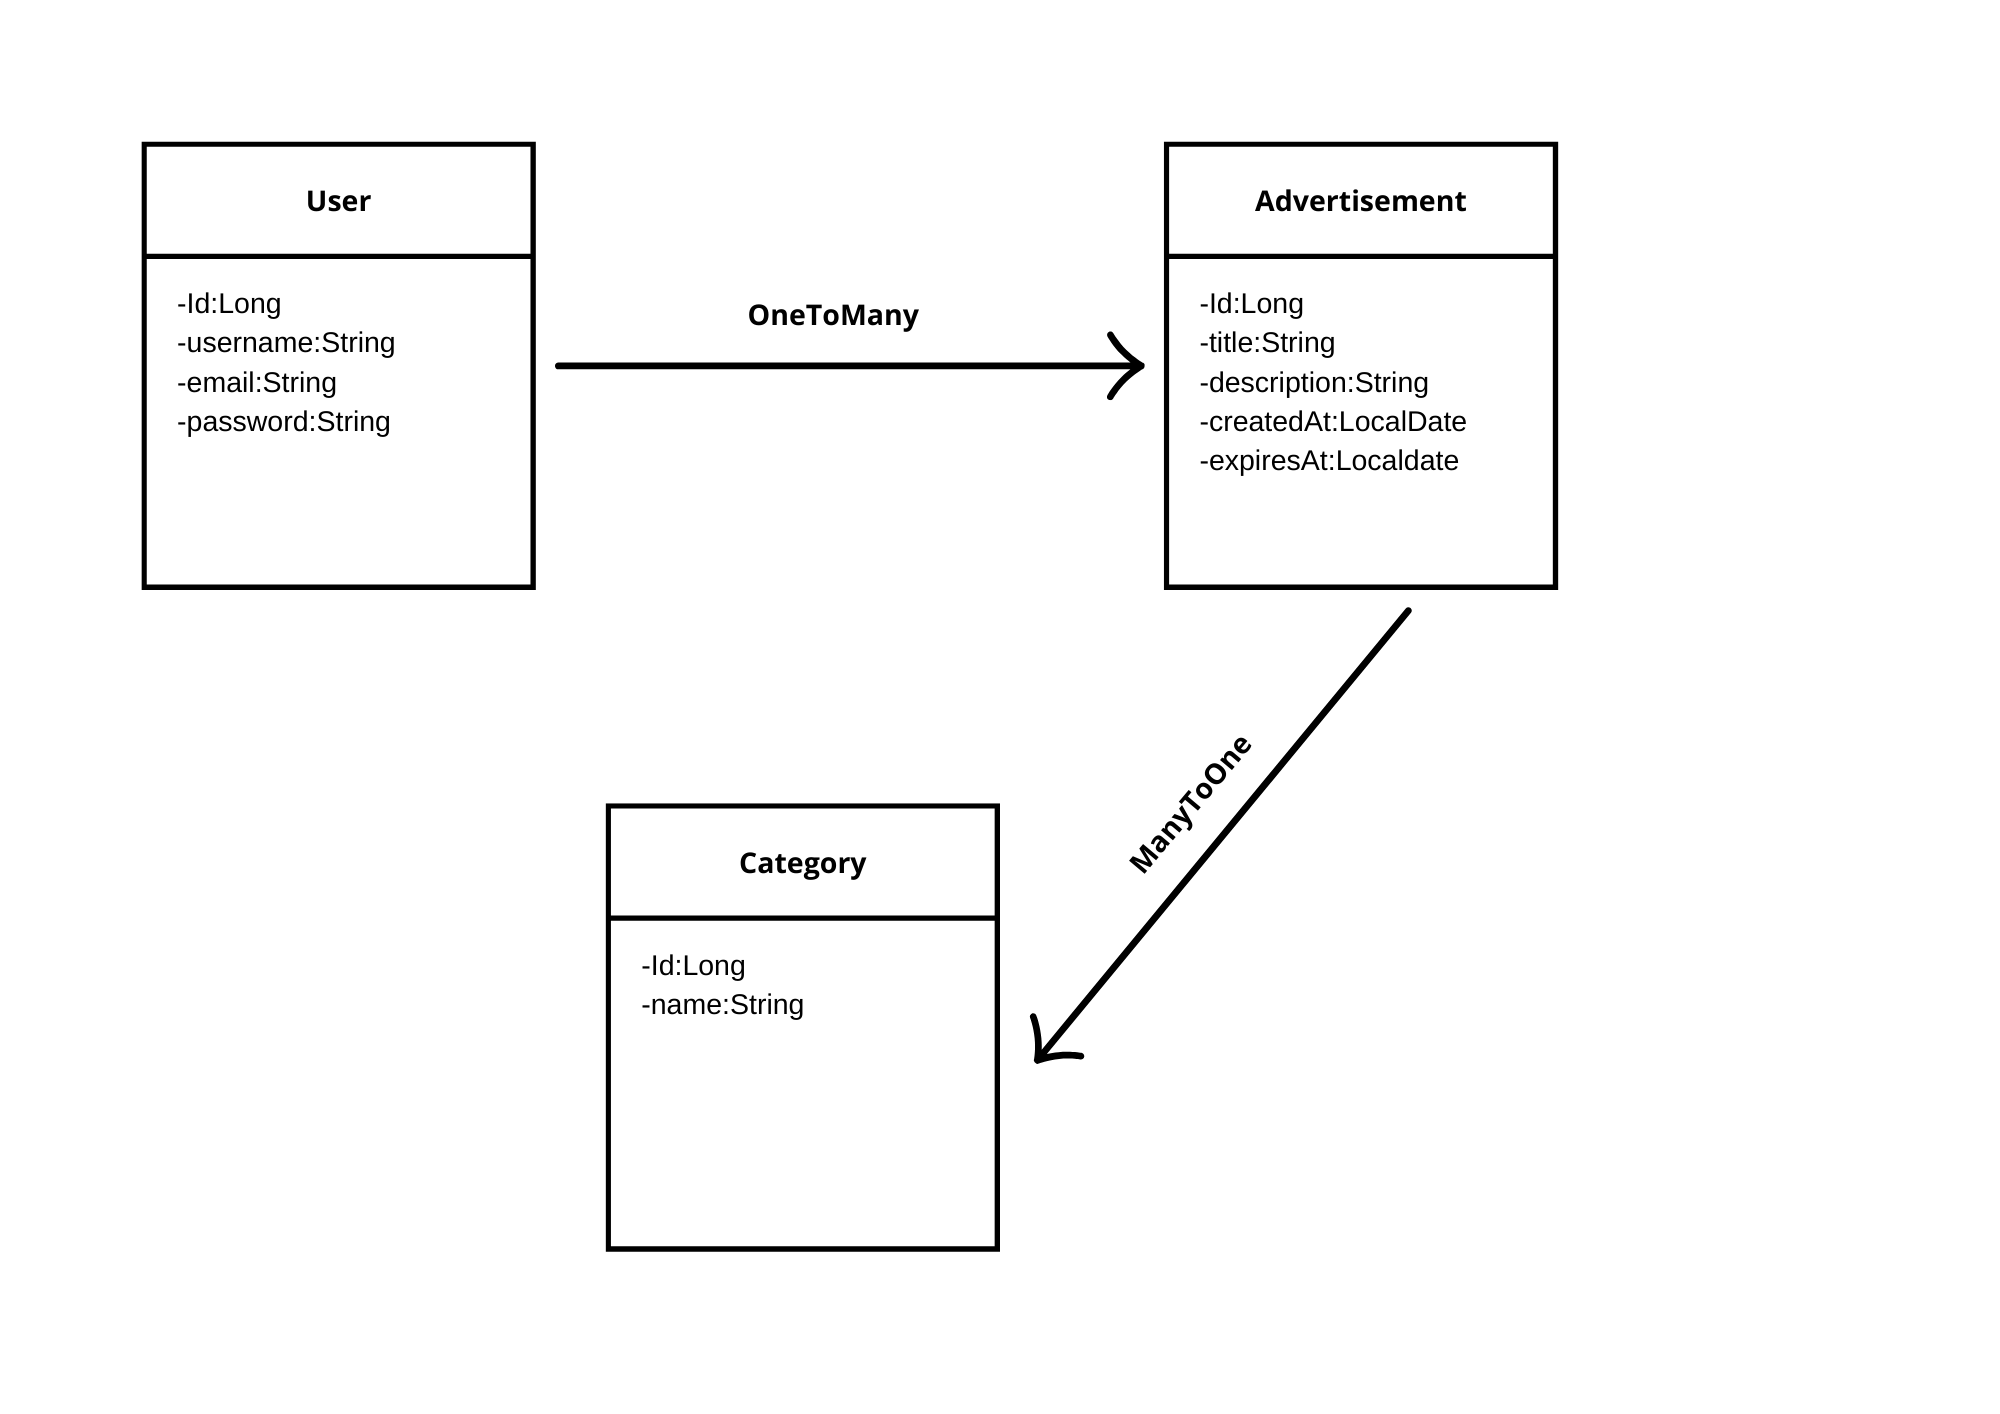
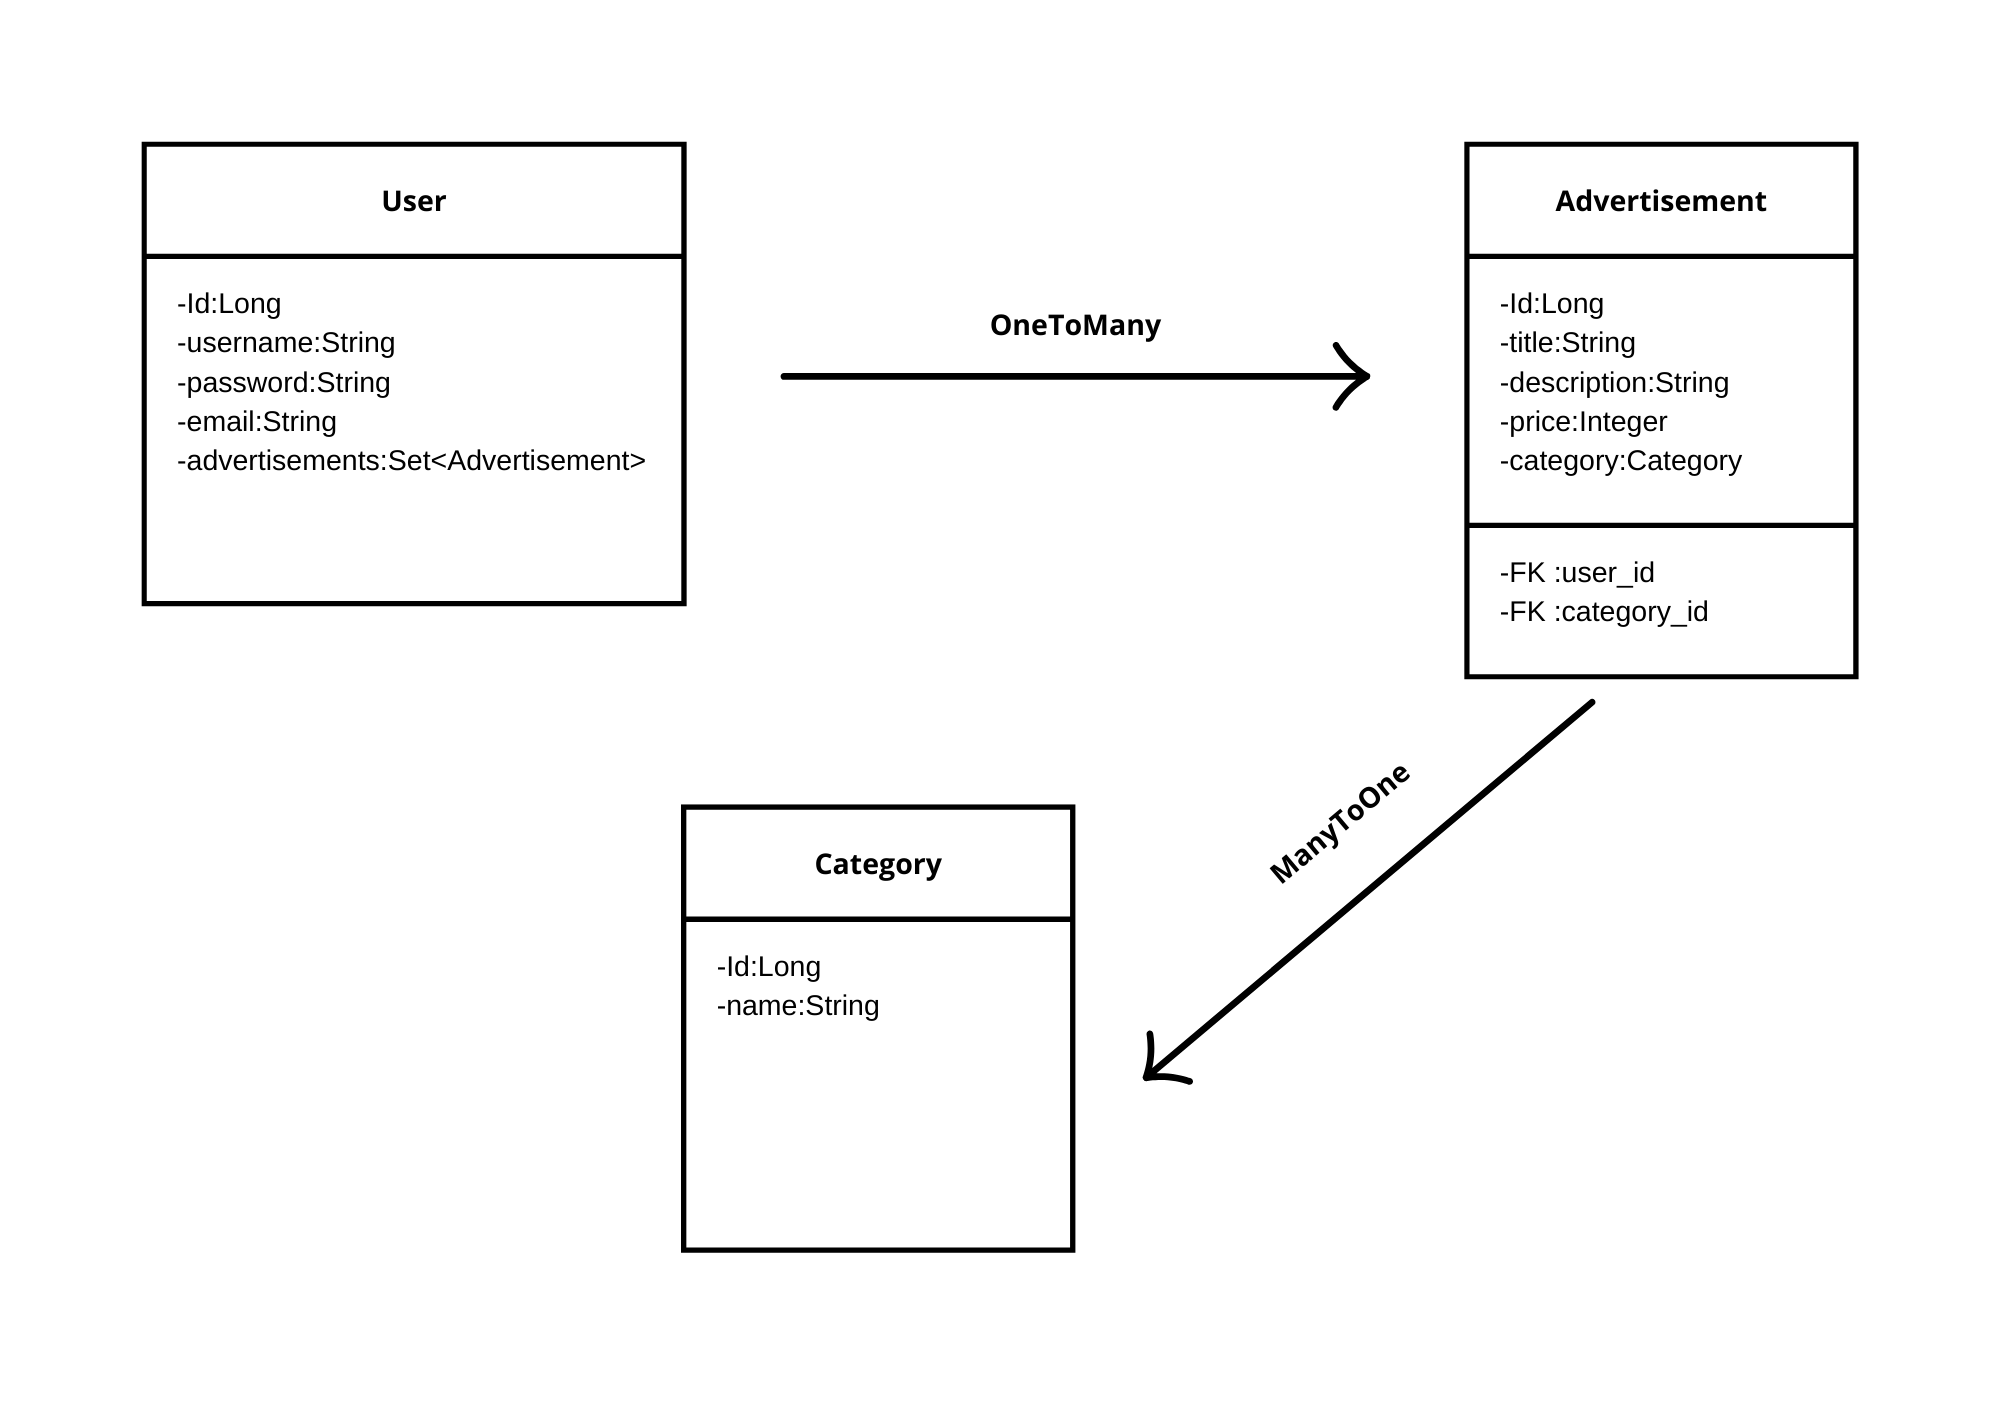
Update Advertisement class and diagram

diff --git a/src/main/java/se/lexicon/marketplaceapi/domain/entity/Advertisement.java b/src/main/java/se/lexicon/marketplaceapi/domain/entity/Advertisement.java
@@ -24,7 +24,7 @@ public class Advertisement {
     private String description;
 
     @Column(nullable = false)
-    private BigDecimal price;
+    private Integer price;
 
     // One advertisement is associated with one user
     @ManyToOne(fetch = FetchType.LAZY)
@@ -37,7 +37,7 @@ public class Advertisement {
     private Category category;
 
     // Constructor for creating Advertisement without User and Category
-    public Advertisement(String title, String description, BigDecimal price) {
+    public Advertisement(String title, String description, Integer price) {
         this.title = title;
         this.description = description;
         this.price = price;
